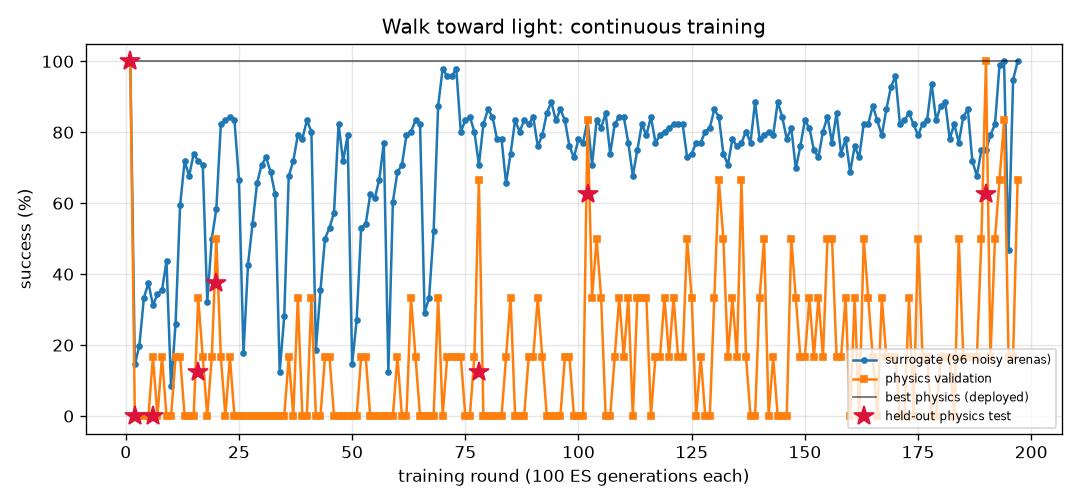
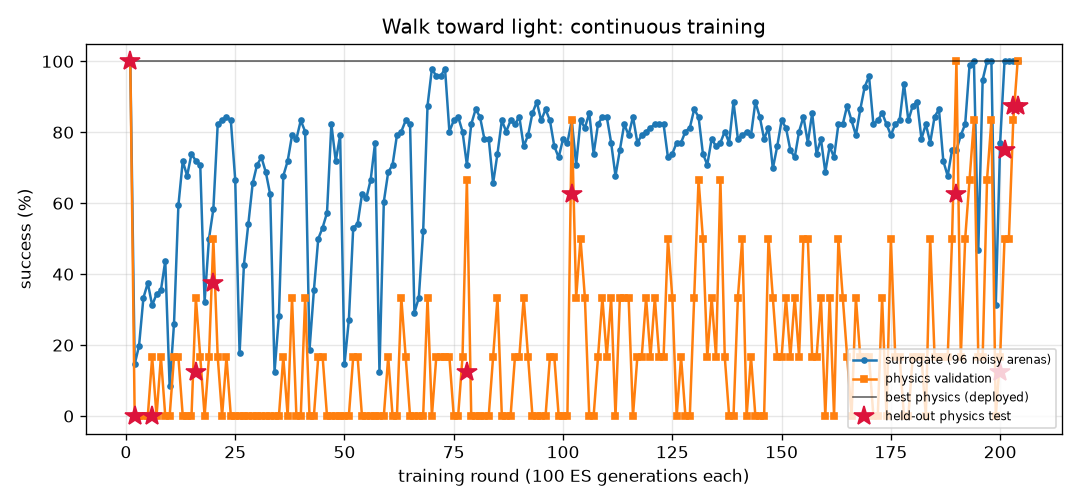
FlyLab: continuous training progress
- walk_forward: optimal, physics val 100% of 24, round 28
- turn: optimal, physics val 96% of 24, round 3
- goto: optimal, physics val 100% of 24, round 33
- odor_seek: optimal, physics val 100% of 24, round 61
- odor_avoid: optimal, physics val 96% of 24, round 202
- light_seek: level 2/3, physics val 92% of 12, round 204
- light_avoid: optimal, physics val 96% of 24, round 21

diff --git a/projects/09_flylab/training/light_seek/REPORT.md b/projects/09_flylab/training/light_seek/REPORT.md
@@ -1,29 +1,22 @@
 # Walk toward light (`light_seek`) — training report
 
-*Auto-generated by `train_brains.py`, last updated 2026-09-26T06:58:01.*
+*Auto-generated by `train_brains.py`, last updated 2026-09-26T23:21:07.*
 
 ![curve](curve.png)
 
 | | |
 |---|---|
-| rounds | 197 |
-| ES generations | 19700 |
-| physics runs | 1344 |
-| status | level 1/3 |
-| best brain | round 190: physics validation **100%** on 6 arenas, surrogate 75% |
-| held-out physics test | **62%** on 8 unseen arenas (95% CI 31%-86%) (errors: [0.14, 0.47, 0.63, 0.05, 0.35, 0.26, 0.05, 0.05]) |
+| rounds | 204 |
+| ES generations | 20400 |
+| physics runs | 1460 |
+| status | level 2/3 |
+| best brain | round 204: physics validation **92%** on 12 arenas, surrogate 100% |
+| held-out physics test | **94%** on 16 unseen arenas (95% CI 72%-99%) (errors: [0.65, 0.37, 0.39, 0.41, 0.4, 0.4, 0.8, 0.44, 0.38, 0.42, 0.41, 0.37, 0.42, 0.4, 0.39, 0.41]) |
 
 Physics error per arena: mm from target at the end (< 1.5 and standing still = success).
 
 | round | level | gens | sigma | surrogate | physics val | val errors | test | note |
 |---:|---:|---:|---:|---:|---:|---|---:|---|
-| 158 | 1 | 15800 | 0.032 | 74% | 17% | [0.07, 0.19, 0.03, 3.33, 0.25, 0.2] |  | restart from best |
-| 159 | 1 | 15900 | 0.033 | 78% | 33% | [0.09, 0.07, 0.05, 0.06, 1.8, 0.15] |  |  |
-| 160 | 1 | 16000 | 0.036 | 69% | 0% | [0.15, 0.13, 0.07, 0.09, 0.08, 4.01] |  |  |
-| 161 | 1 | 16100 | 0.042 | 76% | 33% | [0.05, 0.21, 0.41, 0.22, 0.54, 0.63] |  |  |
-| 162 | 1 | 16200 | 0.037 | 73% | 0% | [0.21, 2.03, 3.9, 0.29, 0.52, 0.16] |  | restart from best |
-| 163 | 1 | 16300 | 0.033 | 82% | 50% | [0.05, 0.18, 0.1, 0.03, 0.14, 3.42] |  |  |
-| 164 | 1 | 16400 | 0.034 | 82% | 33% | [0.09, 0.11, 0.2, 0.07, 0.6, 2.66] |  |  |
 | 165 | 1 | 16500 | 0.034 | 88% | 17% | [0.21, 0.5, 0.22, 0.33, 0.09, 4.41] |  |  |
 | 166 | 1 | 16600 | 0.031 | 83% | 0% | [0.05, 0.54, 0.15, 0.02, 0.41, 1.11] |  | restart from best |
 | 167 | 1 | 16700 | 0.033 | 79% | 33% | [0.1, 0.38, 0.23, 0.21, 0.09, 0.21] |  |  |
@@ -57,3 +50,10 @@ Physics error per arena: mm from target at the end (< 1.5 and standing still = s
 | 195 | 1 | 19500 | 0.076 | 47% | 17% | [0.48, 0.32, 0.61, 0.29, 0.32, 0.61] |  |  |
 | 196 | 1 | 19600 | 0.054 | 95% | 17% | [0.37, 0.34, 0.55, 0.64, 0.44, 0.49] |  |  |
 | 197 | 1 | 19700 | 0.027 | 100% | 67% | [1.08, 0.8, 0.63, 0.84, 0.63, 0.65] |  |  |
+| 198 | 1 | 19800 | 0.024 | 100% | 83% | [0.35, 0.42, 0.79, 0.79, 0.39, 0.52] |  | restart from best |
+| 199 | 1 | 19900 | 0.076 | 31% | 0% | [0.35, 0.29, 0.26, 0.19, 0.61, 0.38] |  |  |
+| 200 | 1 | 20000 | 0.062 | 77% | 17% | [0.83, 0.56, 0.66, 0.93, 0.63, 0.67] | 12% | new best |
+| 201 | 1 | 20100 | 0.037 | 100% | 50% | [0.78, 0.56, 0.4, 0.9, 0.65, 0.69] | 75% | new best |
+| 202 | 1 | 20200 | 0.024 | 100% | 50% | [0.91, 0.73, 0.85, 0.92, 0.45, 0.66] |  |  |
+| 203 | 1 | 20300 | 0.024 | 100% | 83% | [1.03, 0.39, 0.39, 0.38, 0.38, 0.39] | 88% | new best |
+| 204 | 1 | 20400 | 0.024 | 100% | 100% | [0.38, 0.37, 0.38, 0.74, 0.69, 0.37] | 88% | new best |

diff --git a/projects/09_flylab/training/TRAINING.md b/projects/09_flylab/training/TRAINING.md
@@ -1,6 +1,6 @@
 # FlyLab brains — continuous training log
 
-*Auto-generated by `train_brains.py`, last updated 2026-09-26T06:58:01.*
+*Auto-generated by `train_brains.py`, last updated 2026-09-26T23:21:07.*
 
 Every skill has its own brain and its own training process: surrogate ES rounds, physics validation in MuJoCo, keep-the-best selection, and a held-out physics test that is never used for selection. See each skill's report for its full round-by-round history. Mastery is progressive: passing a level (100% physics validation, >=95% surrogate) doubles the validation and test arena sets; a brain is **optimal** once it holds up at level 3 (>=95% of 24 validation arenas) AND scores >=90% on the 32 held-out test arenas. Test columns show 95% Wilson confidence intervals.
 
@@ -10,6 +10,6 @@ Every skill has its own brain and its own training process: surrogate ES rounds,
 | [Turn in place](turn/REPORT.md) | 3 | 300 | 126 | 99% | 96% of 24 | 91% of 32 (CI 76-97%) | **optimal** |
 | [Go to a location](goto/REPORT.md) | 33 | 3300 | 422 | 100% | 100% of 24 | 100% of 32 (CI 89-100%) | **optimal** |
 | [Find food by smell](odor_seek/REPORT.md) | 61 | 6100 | 574 | 100% | 100% of 24 | 100% of 32 (CI 89-100%) | **optimal** |
-| [Escape a bad smell](odor_avoid/REPORT.md) | 202 | 20200 | 1394 | 97% | 100% of 12 | 100% of 16 (CI 81-100%) | level 2/3 (passed) |
-| [Walk toward light](light_seek/REPORT.md) | 197 | 19700 | 1344 | 75% | 100% of 6 | 62% of 8 (CI 31-86%) | level 1/3 |
-| [Hide from light](light_avoid/REPORT.md) | 21 | 2100 | 518 | 98% | 100% of 24 | 100% of 32 (CI 89-100%) | **optimal** |
+| [Escape a bad smell](odor_avoid/REPORT.md) | 202 | 20200 | 1450 | 97% | 96% of 24 | 97% of 32 (CI 84-99%) | **optimal** |
+| [Walk toward light](light_seek/REPORT.md) | 204 | 20400 | 1460 | 100% | 92% of 12 | 94% of 16 (CI 72-99%) | level 2/3 |
+| [Hide from light](light_avoid/REPORT.md) | 21 | 2100 | 616 | 99% | 96% of 24 | 97% of 32 (CI 84-99%) | **optimal** |

diff --git a/projects/09_flylab/training/light_avoid/REPORT.md b/projects/09_flylab/training/light_avoid/REPORT.md
@@ -1,6 +1,6 @@
 # Hide from light (`light_avoid`) — training report
 
-*Auto-generated by `train_brains.py`, last updated 2026-09-25T20:04:46.*
+*Auto-generated by `train_brains.py`, last updated 2026-09-26T23:10:12.*
 
 ![curve](curve.png)
 
@@ -8,10 +8,10 @@
 |---|---|
 | rounds | 21 |
 | ES generations | 2100 |
-| physics runs | 518 |
+| physics runs | 616 |
 | status | **optimal** |
-| best brain | round 21: physics validation **100%** on 24 arenas, surrogate 98% |
-| held-out physics test | **100%** on 32 unseen arenas (95% CI 89%-100%) (errors: [9.3, 27.2, 28.1, 28.2, 28.1, 16.6, 13.7, 22.9, 22.7, 15.8, 13.6, 27.7, 28.1, 18.6, 27.4, 24.1, 27.6, 22.4, 23.9, 23.1, 26.4, 23.1, 22.7, 25.1, 13.7, 12.7, 25.4, 28.2, 23.1, 14.3, 24.7, 23.5]) |
+| best brain | round 21: physics validation **96%** on 24 arenas, surrogate 99% |
+| held-out physics test | **97%** on 32 unseen arenas (95% CI 84%-99%) (errors: [11.2, 24.8, 25.0, 27.2, 26.8, 12.4, 13.9, 18.6, 19.7, 11.7, 13.6, 25.9, 26.6, 13.0, 25.5, 19.3, 23.7, 19.3, 23.0, 20.6, 25.7, 19.1, 20.9, 24.2, 13.6, 12.6, 23.4, 25.7, 21.3, 14.8, 24.2, 20.4]) |
 
 Physics error per arena: mm gained away from source (> 6 without first approaching it = success).
 

diff --git a/projects/09_flylab/training/odor_avoid/REPORT.md b/projects/09_flylab/training/odor_avoid/REPORT.md
@@ -1,6 +1,6 @@
 # Escape a bad smell (`odor_avoid`) — training report
 
-*Auto-generated by `train_brains.py`, last updated 2026-09-26T06:53:06.*
+*Auto-generated by `train_brains.py`, last updated 2026-09-26T22:41:33.*
 
 ![curve](curve.png)
 
@@ -8,10 +8,10 @@
 |---|---|
 | rounds | 202 |
 | ES generations | 20200 |
-| physics runs | 1394 |
-| status | level 2/3 (passed) |
-| best brain | round 202: physics validation **100%** on 12 arenas, surrogate 97% |
-| held-out physics test | **100%** on 16 unseen arenas (95% CI 81%-100%) (errors: [21.7, 21.6, 21.3, 22.1, 22.3, 22.8, 21.0, 23.3, 22.5, 21.0, 20.8, 21.0, 21.7, 21.3, 22.5, 23.1]) |
+| physics runs | 1450 |
+| status | **optimal** |
+| best brain | round 202: physics validation **96%** on 24 arenas, surrogate 97% |
+| held-out physics test | **97%** on 32 unseen arenas (95% CI 84%-99%) (errors: [21.7, 21.6, 21.3, 22.1, 22.3, 22.8, 21.0, 23.3, 22.5, 21.0, 20.8, 21.0, 21.7, 21.3, 22.5, 23.1, 22.6, 22.0, 23.1, 23.0, 22.0, 20.9, 22.7, 22.8, 21.8, 22.2, 22.4, 23.3, 22.2, 23.5, 21.7, 20.6]) |
 
 Physics error per arena: mm gained away from source (> 6 without first approaching it = success).
 
